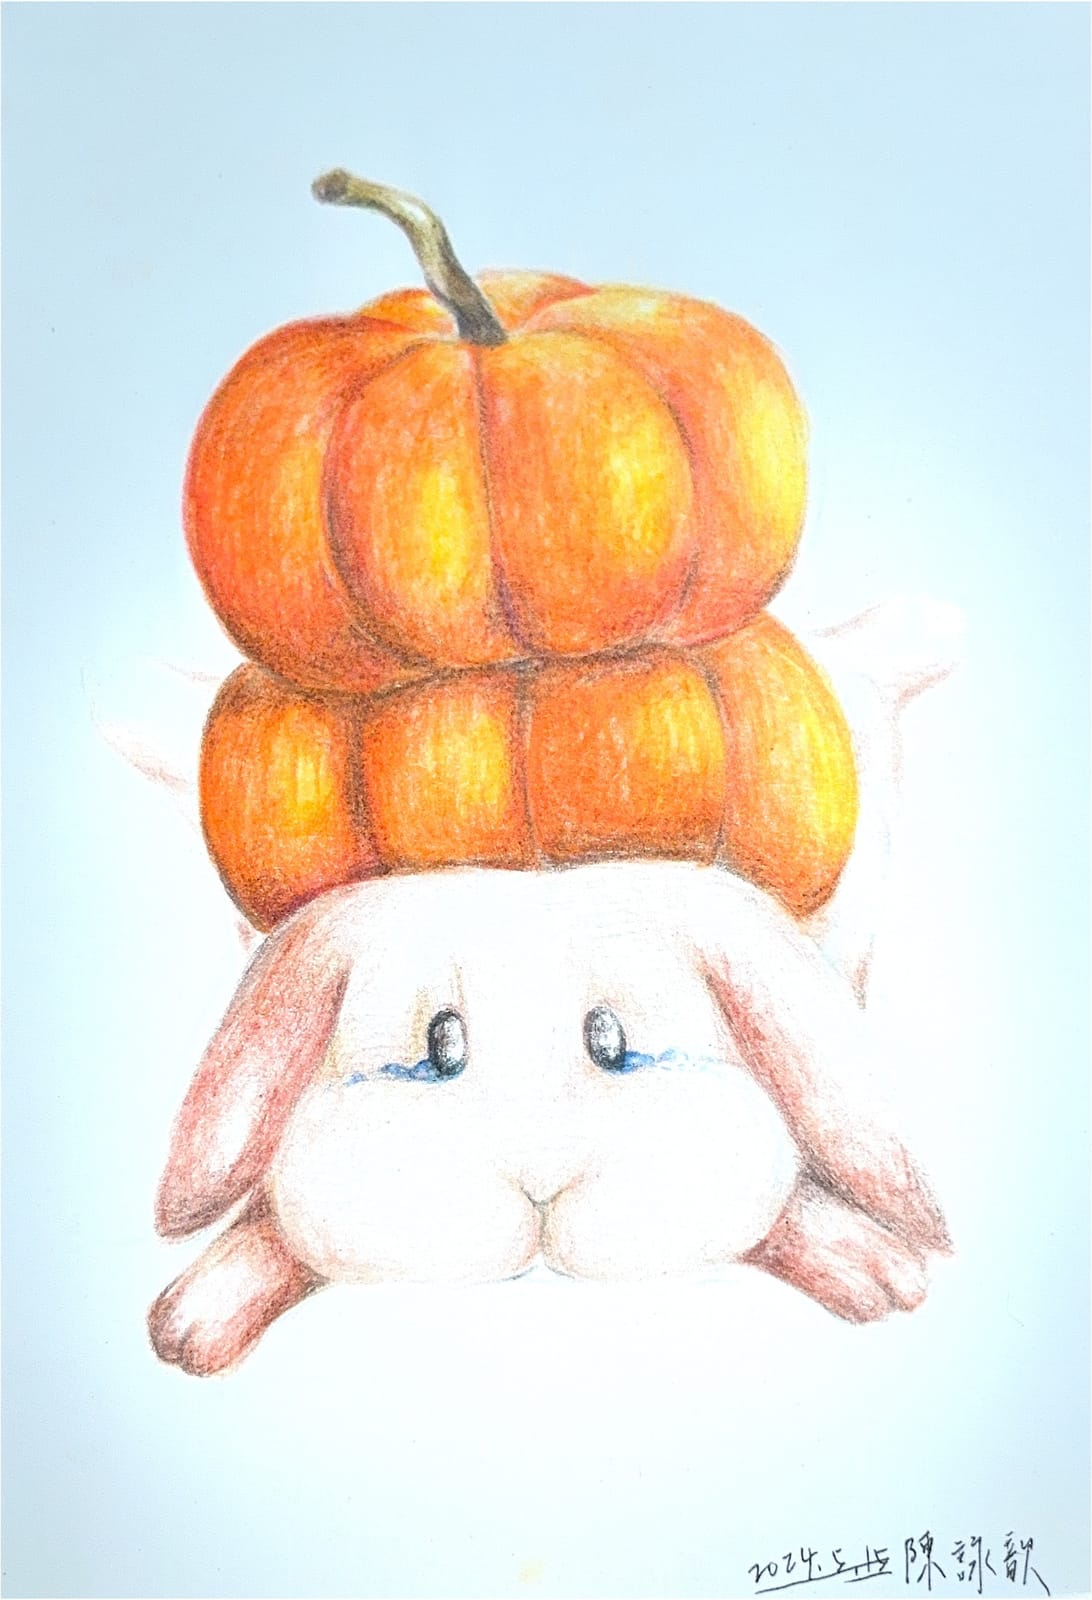
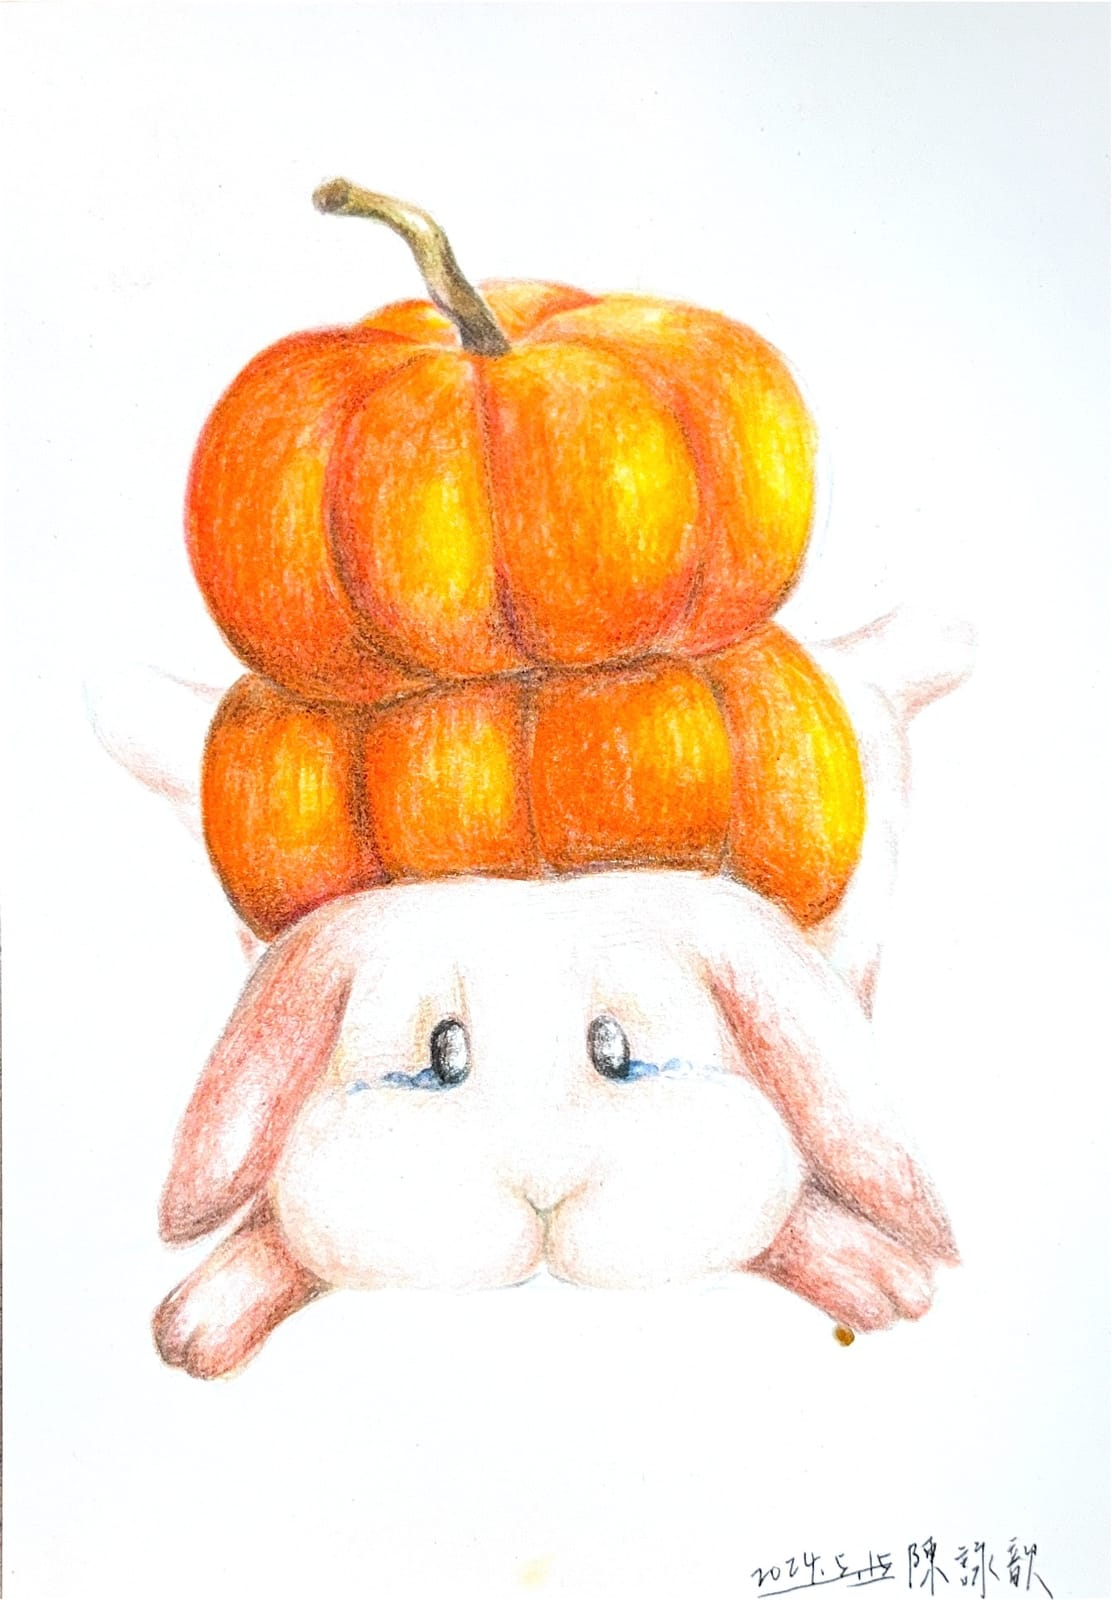
Group painting gallery images by orientation and fix a couple of layout edge cases
Landscape-oriented works now sit together in their own row instead of
being interleaved with portraits by plain array order, applied across
all medium tabs; a near-square piece (明暗之間) gets a manual
layoutGroup override since its aspect ratio is too close to call
automatically. Practice items with only one photo (飯醉現場, 南上加南)
are grouped into a shared row instead of each taking a full-width block
alone. Also swap in a newer scan of 南上加南 with a clean white
background, replacing the earlier bluish one.

Claude-Session: https://claude.ai/code/session_019pWMSZZfaxiMfVsRUYQ1YU

diff --git a/src/components/PaintingPractice.tsx b/src/components/PaintingPractice.tsx
@@ -3,7 +3,33 @@
 import { useState } from "react";
 import ArtworkImage from "@/components/ArtworkImage";
 import CollapsibleSection from "@/components/CollapsibleSection";
-import { paintingPractice } from "@/data/paintingPractice";
+import { paintingPractice, type PracticeItem } from "@/data/paintingPractice";
+
+type ItemGroup =
+  | { type: "multi"; item: PracticeItem }
+  | { type: "singles"; items: PracticeItem[] };
+
+// Items with only one photo (e.g. 飯醉現場, 南上加南) sit awkwardly alone
+// in a full-width row; group consecutive single-photo items so they share
+// a row instead, while items with several photos keep their own block.
+function groupPracticeItems(items: PracticeItem[]): ItemGroup[] {
+  const groups: ItemGroup[] = [];
+  let i = 0;
+  while (i < items.length) {
+    if (items[i].files.length === 1) {
+      const run: PracticeItem[] = [];
+      while (i < items.length && items[i].files.length === 1) {
+        run.push(items[i]);
+        i++;
+      }
+      groups.push({ type: "singles", items: run });
+    } else {
+      groups.push({ type: "multi", item: items[i] });
+      i++;
+    }
+  }
+  return groups;
+}
 
 export default function PaintingPractice() {
   const [activeId, setActiveId] = useState(paintingPractice[0].id);
@@ -32,27 +58,58 @@ export default function PaintingPractice() {
       </div>
 
       <div key={category.id} className="page-fade-in mt-6 space-y-8">
-        {category.items.map((item) => (
-          <div key={item.id}>
-            <p className="font-serif text-sm text-foreground">
-              {item.labelZh}{" "}
-              <span className="text-xs text-muted">{item.labelEn}</span>
-            </p>
-            <div className="mt-3 grid grid-cols-3 items-start gap-3">
-              {item.files.map((f) => (
-                <ArtworkImage
-                  key={f.file}
-                  src={`/images/interests/painting/practice/${category.id}/${item.id}/${f.file}`}
-                  alt={`${item.labelZh} practice`}
-                  width={f.width}
-                  height={f.height}
-                  sizes="33vw"
-                  className="h-auto w-full rounded-lg"
-                />
+        {groupPracticeItems(category.items).map((group, idx) => {
+          if (group.type === "multi") {
+            const item = group.item;
+            return (
+              <div key={item.id}>
+                <p className="font-serif text-sm text-foreground">
+                  {item.labelZh}{" "}
+                  <span className="text-xs text-muted">{item.labelEn}</span>
+                </p>
+                <div className="mt-3 grid grid-cols-3 items-start gap-3">
+                  {item.files.map((f) => (
+                    <ArtworkImage
+                      key={f.file}
+                      src={`/images/interests/painting/practice/${category.id}/${item.id}/${f.file}`}
+                      alt={`${item.labelZh} practice`}
+                      width={f.width}
+                      height={f.height}
+                      sizes="33vw"
+                      className="h-auto w-full rounded-lg"
+                    />
+                  ))}
+                </div>
+              </div>
+            );
+          }
+
+          return (
+            <div
+              key={`singles-${idx}`}
+              className="grid grid-cols-2 items-start gap-6 sm:grid-cols-3"
+            >
+              {group.items.map((item) => (
+                <div key={item.id}>
+                  <p className="font-serif text-sm text-foreground">
+                    {item.labelZh}{" "}
+                    <span className="text-xs text-muted">{item.labelEn}</span>
+                  </p>
+                  <div className="mt-3">
+                    <ArtworkImage
+                      src={`/images/interests/painting/practice/${category.id}/${item.id}/${item.files[0].file}`}
+                      alt={`${item.labelZh} practice`}
+                      width={item.files[0].width}
+                      height={item.files[0].height}
+                      sizes="33vw"
+                      className="h-auto w-full rounded-lg"
+                    />
+                  </div>
+                </div>
               ))}
             </div>
-          </div>
-        ))}
+          );
+        })}
       </div>
     </CollapsibleSection>
   );

diff --git a/src/components/PaintingMediums.tsx b/src/components/PaintingMediums.tsx
@@ -3,11 +3,41 @@
 import { useState } from "react";
 import ArtworkImage from "@/components/ArtworkImage";
 import CollapsibleSection from "@/components/CollapsibleSection";
-import { paintingMediums } from "@/data/paintings";
+import { paintingMediums, type Painting } from "@/data/paintings";
+
+function WorkCard({ work, folder }: { work: Painting; folder: string }) {
+  return (
+    <div>
+      <ArtworkImage
+        src={`/images/interests/painting/${folder}/${work.file}`}
+        alt={work.titleZh}
+        width={work.width}
+        height={work.height}
+        sizes="(min-width: 640px) 30vw, 45vw"
+        className="h-auto w-full rounded-lg"
+      />
+      <p className="mt-2 text-sm text-foreground/80">
+        {work.titleZh} <span className="text-muted">{work.titleEn}</span>
+      </p>
+      {work.mediaNote && (
+        <p className="text-xs italic text-muted">{work.mediaNote}</p>
+      )}
+    </div>
+  );
+}
 
 export default function PaintingMediums() {
   const [activeId, setActiveId] = useState(paintingMediums[0].id);
   const medium = paintingMediums.find((m) => m.id === activeId)!;
+
+  // Group horizontally-oriented (landscape) works into their own row,
+  // separate from vertical (portrait) works, so wide pieces sit together
+  // instead of being interleaved with tall ones by plain array order.
+  // `layoutGroup` lets a near-square piece override the automatic guess.
+  const isLandscape = (w: Painting) =>
+    w.layoutGroup ? w.layoutGroup === "landscape" : w.width > w.height;
+  const landscapeWorks = medium.works.filter(isLandscape);
+  const portraitWorks = medium.works.filter((w) => !isLandscape(w));
 
   return (
     <CollapsibleSection titleZh="媒材作品集">
@@ -29,28 +59,25 @@ export default function PaintingMediums() {
         ))}
       </div>
 
-      <div
-        key={medium.id}
-        className="page-fade-in mt-6 grid grid-cols-2 items-start gap-x-6 gap-y-8 sm:grid-cols-3"
-      >
-        {medium.works.map((work) => (
-          <div key={work.file}>
-            <ArtworkImage
-              src={`/images/interests/painting/${medium.folder}/${work.file}`}
-              alt={work.titleZh}
-              width={work.width}
-              height={work.height}
-              sizes="(min-width: 640px) 30vw, 45vw"
-              className="h-auto w-full rounded-lg"
-            />
-            <p className="mt-2 text-sm text-foreground/80">
-              {work.titleZh} <span className="text-muted">{work.titleEn}</span>
-            </p>
-            {work.mediaNote && (
-              <p className="text-xs italic text-muted">{work.mediaNote}</p>
-            )}
+      <div key={medium.id} className="page-fade-in mt-6">
+        {landscapeWorks.length > 0 && (
+          <div className="grid grid-cols-2 items-start gap-x-6 gap-y-8 sm:grid-cols-3">
+            {landscapeWorks.map((work) => (
+              <WorkCard key={work.file} work={work} folder={medium.folder} />
+            ))}
           </div>
-        ))}
+        )}
+        {portraitWorks.length > 0 && (
+          <div
+            className={`grid grid-cols-2 items-start gap-x-6 gap-y-8 sm:grid-cols-3 ${
+              landscapeWorks.length > 0 ? "mt-8" : ""
+            }`}
+          >
+            {portraitWorks.map((work) => (
+              <WorkCard key={work.file} work={work} folder={medium.folder} />
+            ))}
+          </div>
+        )}
       </div>
     </CollapsibleSection>
   );

diff --git a/src/data/paintings.ts b/src/data/paintings.ts
@@ -5,6 +5,10 @@ export type Painting = {
   width: number;
   height: number;
   mediaNote?: string;
+  // Override the automatic landscape/portrait grouping in PaintingMediums
+  // (width > height) for pieces close to square that should sit in a
+  // specific row regardless of their exact aspect ratio.
+  layoutGroup?: "landscape" | "portrait";
 };
 
 // public/images/interests/painting/series/
@@ -73,7 +77,7 @@ export const paintingMediums: PaintingMedium[] = [
     { file: "color_hand.jpg", titleZh: "色彩之手", titleEn: "Hands of Color", width: 1081, height: 1600, mediaNote: "水墨加水彩" },
     { file: "plural_marriage.jpg", titleZh: "疫線紅繩", titleEn: "Bound Apart", width: 794, height: 1600, mediaNote: "水墨筆畫" },
     { file: "newyear_horse.jpg", titleZh: "木馬慶典", titleEn: "Carousel Festival", width: 1146, height: 1600, mediaNote: "原子筆" },
-    { file: "person1.jpg", titleZh: "明暗之間", titleEn: "Between Light and Dark", width: 1526, height: 1600, mediaNote: "壓克力顏料，畫在絲布上" },
+    { file: "person1.jpg", titleZh: "明暗之間", titleEn: "Between Light and Dark", width: 1526, height: 1600, mediaNote: "壓克力顏料，畫在絲布上", layoutGroup: "landscape" },
     ],
   },
 ];

diff --git a/src/data/paintingPractice.ts b/src/data/paintingPractice.ts
@@ -201,7 +201,7 @@ export const paintingPractice: PracticeCategory[] = [
         labelZh: "南上加南",
         labelEn: "Double the Pumpkin",
         files: [
-          { file: "double-the-pumpkin.jpg", width: 1092, height: 1600 },
+          { file: "double-the-pumpkin.jpg", width: 1112, height: 1600 },
         ],
       },
       {
